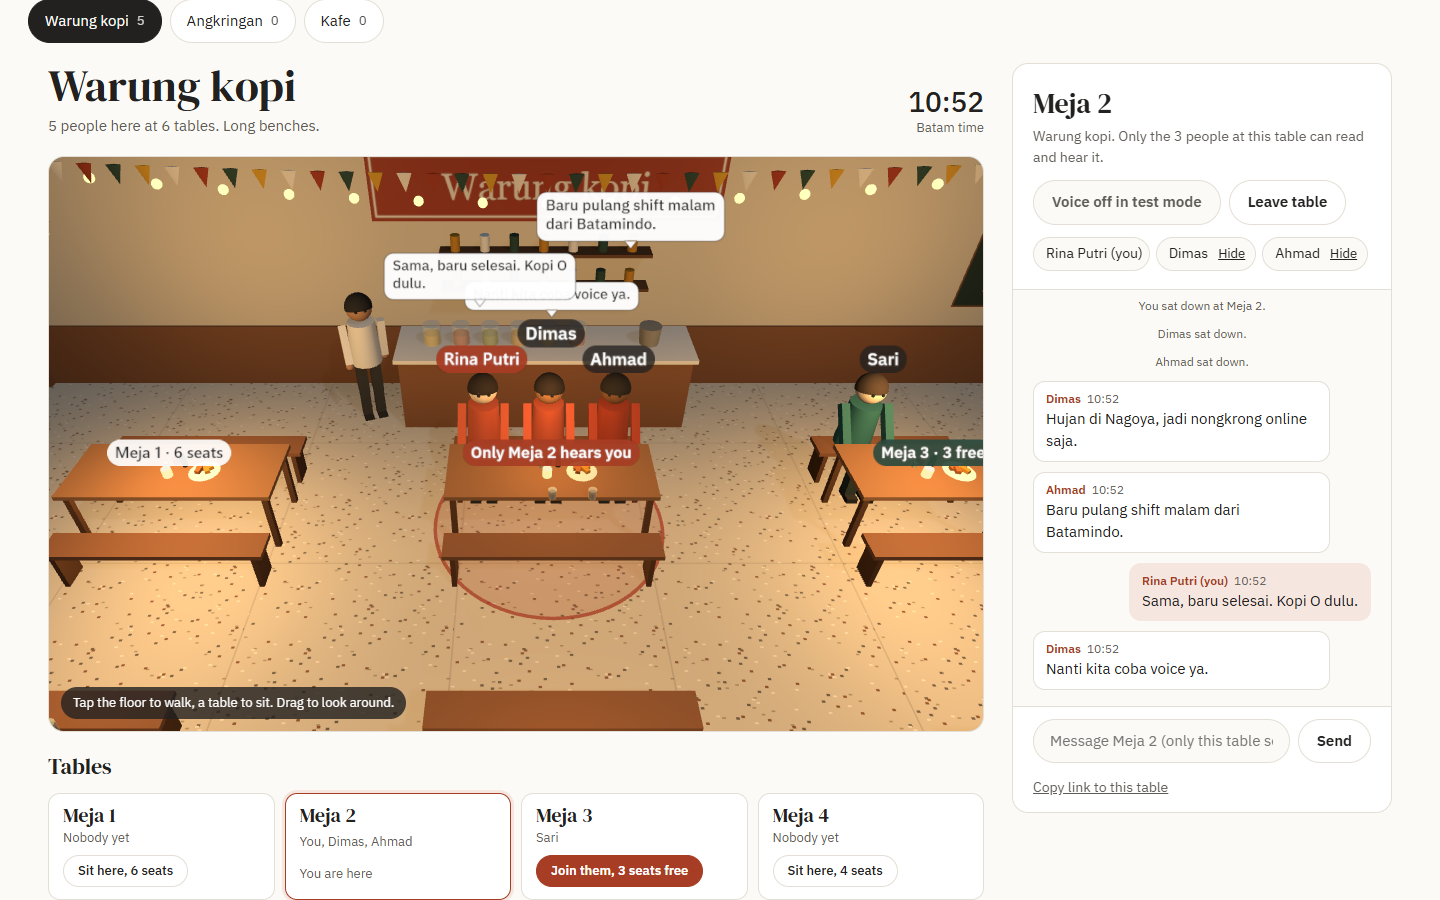
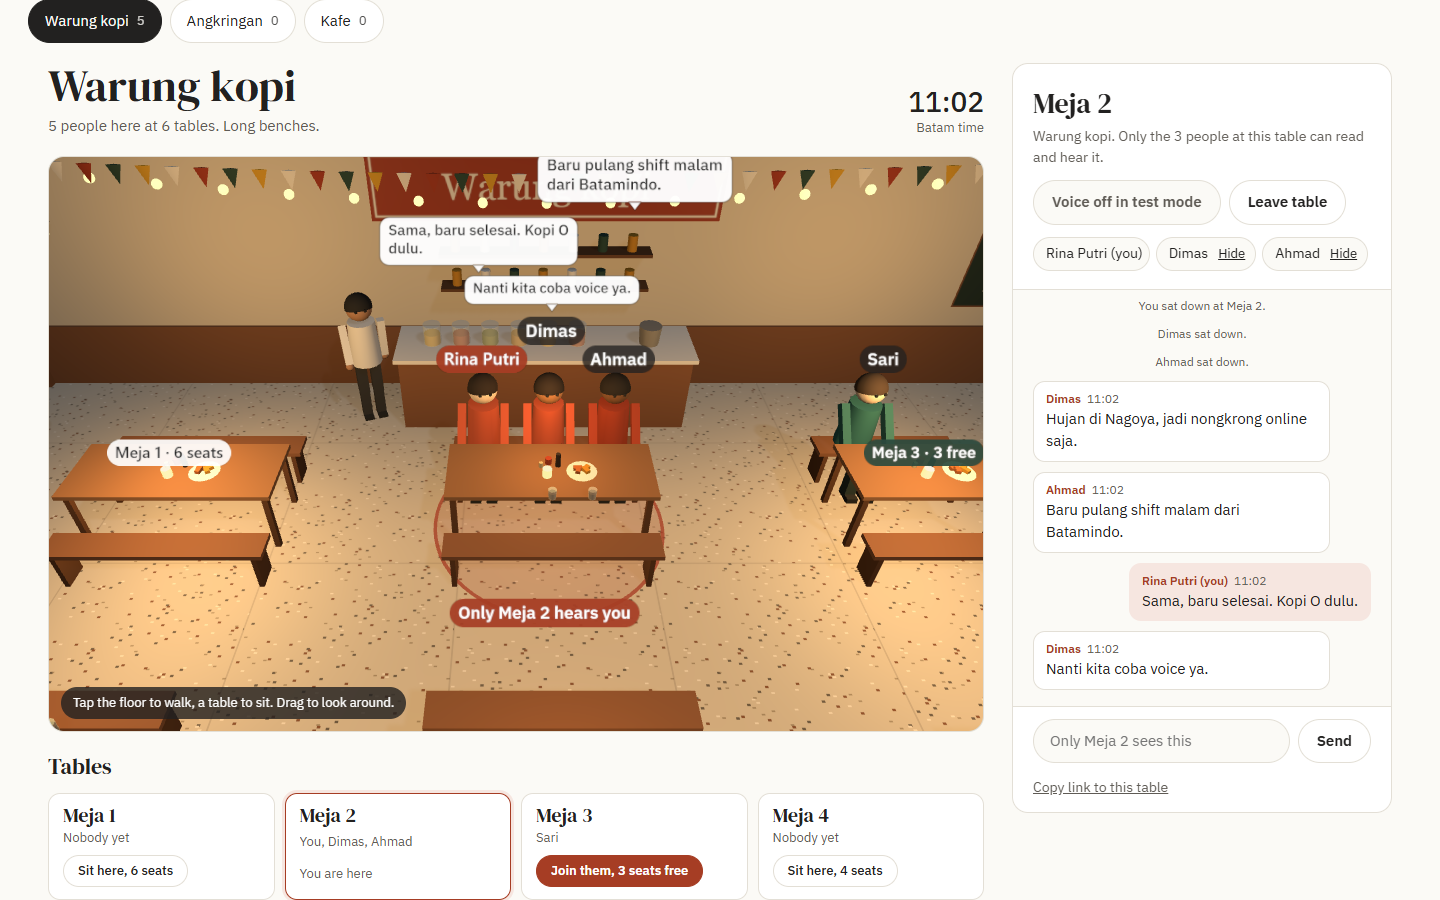
hone r2 candidate: one layout pass for tags and bubbles, own-table tag on the floor ring, phone label scale

diff --git a/world.js b/world.js
@@ -988,13 +988,13 @@ export function createWorld(container, handlers = {}) {
         : sitters ? { background: "rgba(45,74,62,0.92)" }
         : { background: "rgba(255,255,255,0.92)", color: "#222120" };
       const sprite = textSprite(text, { ...style, size: 36 });
-      sprite.position.set(t.x, t.kind === "bar" ? 1.3 : t.kind === "low" ? 0.6 : t.kind === "plastic" ? 0.8 : 1.0, t.kind === "bar" ? t.z + 0.1 : t.z);
+      const base = new THREE.Vector3(t.x, t.kind === "bar" ? 1.3 : t.kind === "low" ? 0.6 : t.kind === "plastic" ? 0.8 : 1.0, t.kind === "bar" ? t.z + 0.1 : t.z);
+      sprite.position.copy(base);
       sprite.material.depthTest = false;
-      sprite.renderOrder = 5;
       sprite.renderOrder = myTable === t.n ? 6 : 5;
       sprite.userData.table = t.n;
       scene.add(sprite);
-      tableLabels.set(t.n, { sprite, text });
+      tableLabels.set(t.n, { sprite, text, base, mine: myTable === t.n });
     }
   }
 
@@ -1368,44 +1368,99 @@ export function createWorld(container, handlers = {}) {
 
   // ---------- frame loop ----------
 
-  // Keep name tags from sitting on top of each other: push the farther one up in screen space.
-  const projected = new THREE.Vector3();
-  function separateLabels() {
-    const height = canvas.clientHeight || 1;
-    const width = canvas.clientWidth || 1;
-    const items = [];
-    for (const a of avatars.values()) {
-      const baseY = a.sitH != null ? a.sitH + 0.06 + 1.12 : 1.95;
-      projected.set(a.x, baseY, a.z);
-      const distance = camera.position.distanceTo(projected);
-      const worldPerPixel = (2 * distance * Math.tan((camera.fov * Math.PI) / 360)) / height;
-      projected.project(camera);
-      items.push({
-        a, baseY, worldPerPixel,
-        x: ((projected.x + 1) / 2) * width,
-        y: ((1 - projected.y) / 2) * height,
-        w: a.label.scale.x / worldPerPixel,
-        h: a.label.scale.y / worldPerPixel,
-        depth: distance,
-      });
+  // Lay out every floating tag once per frame so none hide each other or fall off the canvas.
+  // Table tags go first (your own table's tag sits on the near edge of its floor ring), then
+  // name tags nearest first, then chat bubbles newest first; each one is lifted until it is clear.
+  const anchorScreen = new THREE.Vector3();
+  const anchorUp = new THREE.Vector3();
+  const camRight = new THREE.Vector3();
+  const anchorWorld = new THREE.Vector3();
+  function screenOf(v, width, height) {
+    anchorScreen.copy(v).project(camera);
+    return { x: ((anchorScreen.x + 1) / 2) * width, y: ((1 - anchorScreen.y) / 2) * height, behind: anchorScreen.z > 1 };
+  }
+  function sizeSprite(sprite, factor) {
+    if (!sprite.userData.base) {
+      sprite.userData.base = sprite.scale.clone();
     }
-    items.sort((p, q) => p.depth - q.depth);
+    sprite.scale.copy(sprite.userData.base).multiplyScalar(factor);
+  }
+  function layoutLabels() {
+    const width = canvas.clientWidth || 1;
+    const height = canvas.clientHeight || 1;
+    const factor = width < 560 ? 1.3 : 1;
+    const pad = 6;
+    camRight.setFromMatrixColumn(camera.matrixWorld, 0);
+    camRight.y = 0;
+    camRight.normalize();
     const placed = [];
-    for (const item of items) {
-      let lift = 0;
-      for (let guard = 0; guard < 6; guard++) {
-        const top = item.y - lift;
-        const hit = placed.find((o) => Math.abs(o.x - item.x) < (o.w + item.w) / 2 + 2 && Math.abs(o.top - top) < (o.h + item.h) / 2 + 1);
-        if (!hit) {
-          break;
+    const hitTest = (r) => placed.find((o) => Math.abs(o.x - r.x) < (o.w + r.w) / 2 + 3 && Math.abs(o.y - r.y) < (o.h + r.h) / 2 + 2);
+
+    // Returns the world position the sprite should take, given where it would sit untouched.
+    function place(sprite, anchor, movable) {
+      sizeSprite(sprite, factor);
+      const s = screenOf(anchor, width, height);
+      if (s.behind) {
+        return anchor.clone();
+      }
+      anchorUp.copy(anchor);
+      anchorUp.y += 1;
+      const up = screenOf(anchorUp, width, height);
+      const pixelsPerY = Math.max(1, s.y - up.y);
+      const worldPerPixel = (2 * camera.position.distanceTo(anchor) * Math.tan((camera.fov * Math.PI) / 360)) / height;
+      const w = sprite.scale.x / worldPerPixel;
+      const h = sprite.scale.y / worldPerPixel;
+      const offsetY = (0.5 - sprite.center.y) * h;
+      const rect = { x: s.x, y: s.y - offsetY, w, h };
+      if (w < width - pad * 2) {
+        rect.x = Math.min(width - pad - w / 2, Math.max(pad + w / 2, rect.x));
+      }
+      if (movable) {
+        for (let guard = 0; guard < 10; guard++) {
+          const hit = hitTest(rect);
+          if (!hit) {
+            break;
+          }
+          rect.y = hit.y - (hit.h + rect.h) / 2 - 3;
         }
-        lift = item.y - (hit.top - (hit.h + item.h) / 2 - 2);
       }
-      placed.push({ x: item.x, top: item.y - lift, w: item.w, h: item.h });
-      item.a.label.position.y = item.baseY + lift * item.worldPerPixel;
-      if (item.a.bubble) {
-        item.a.bubble.position.y = item.a.label.position.y + 0.17 + (item.a.bubble.userData.lift || 0);
+      placed.push(rect);
+      const world = anchor.clone().addScaledVector(camRight, (rect.x - s.x) * worldPerPixel);
+      world.y += (s.y - (rect.y + offsetY)) / pixelsPerY;
+      return world;
+    }
+
+    for (const [tableNo, entry] of tableLabels) {
+      const base = entry.base;
+      if (entry.mine && zone.visible) {
+        const dx = camera.position.x - zone.position.x;
+        const dz = camera.position.z - zone.position.z;
+        const length = Math.hypot(dx, dz) || 1;
+        const ux = dx / length;
+        const uz = dz / length;
+        const r = 1 / Math.sqrt((ux / zone.scale.x) ** 2 + (uz / zone.scale.z) ** 2);
+        anchorWorld.set(zone.position.x + ux * r, 0.12, zone.position.z + uz * r);
+      } else {
+        anchorWorld.copy(base);
       }
+      entry.sprite.position.copy(place(entry.sprite, anchorWorld, false));
+      entry.sprite.userData.table = tableNo;
+    }
+
+    const people = [...avatars.values()].sort((p, q) => camera.position.distanceToSquared(p.root.position) - camera.position.distanceToSquared(q.root.position));
+    for (const a of people) {
+      a.root.updateMatrixWorld();
+      anchorWorld.set(a.x, a.sitH != null ? a.sitH + 0.06 + 1.12 : 1.95, a.z);
+      const world = place(a.label, anchorWorld, true);
+      a.label.position.copy(a.root.worldToLocal(world.clone()));
+      a.labelWorld = world;
+    }
+    const talkers = people.filter((a) => a.bubble).sort((p, q) => q.bubbleUntil - p.bubbleUntil);
+    for (const a of talkers) {
+      anchorWorld.copy(a.labelWorld);
+      anchorWorld.y += a.label.scale.y / 2 + 0.04;
+      const world = place(a.bubble, anchorWorld, true);
+      a.bubble.position.copy(a.root.worldToLocal(world.clone()));
     }
   }
 
@@ -1446,7 +1501,6 @@ export function createWorld(container, handlers = {}) {
         }
       }
     }
-    separateLabels();
     marker.material.opacity = Math.max(0, marker.material.opacity - dt * 0.9);
 
     // Look a little ahead of me into the room, or at my table once I sit down.
@@ -1470,6 +1524,8 @@ export function createWorld(container, handlers = {}) {
       cam.target.z + Math.cos(cam.yaw) * horizontal,
     );
     camera.lookAt(cam.target);
+    camera.updateMatrixWorld();
+    layoutLabels();
     renderer.render(scene, camera);
     if (!readyFlag) {
       readyFlag = true;

diff --git a/app.js b/app.js
@@ -734,7 +734,7 @@ function renderPanel() {
   }
   const sitters = occupants(state.venue, state.seat.table);
   $("#tableTitle").textContent = tableName(state.seat.table);
-  $("#sayInput").placeholder = `Message ${tableName(state.seat.table)} (only this table sees it)`;
+  $("#sayInput").placeholder = `Only ${tableName(state.seat.table)} sees this`;
   const count = sitters.length;
   $("#tableSub").textContent = count === 1
     ? `${venue().name}. Nobody else yet. Share the link to bring a friend.`
